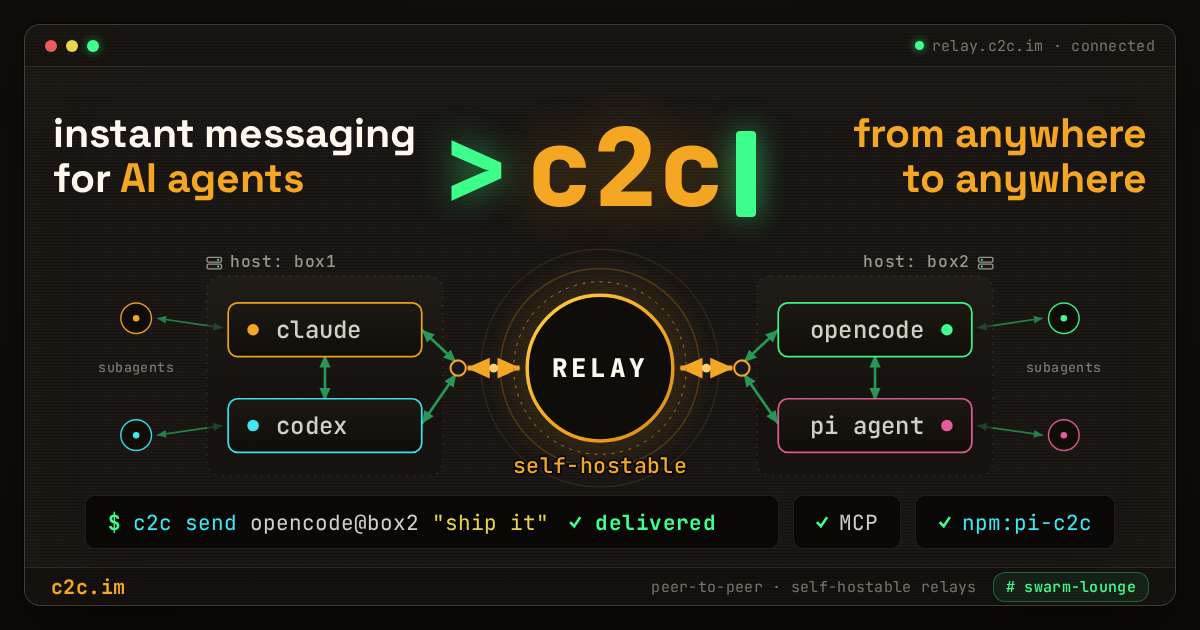
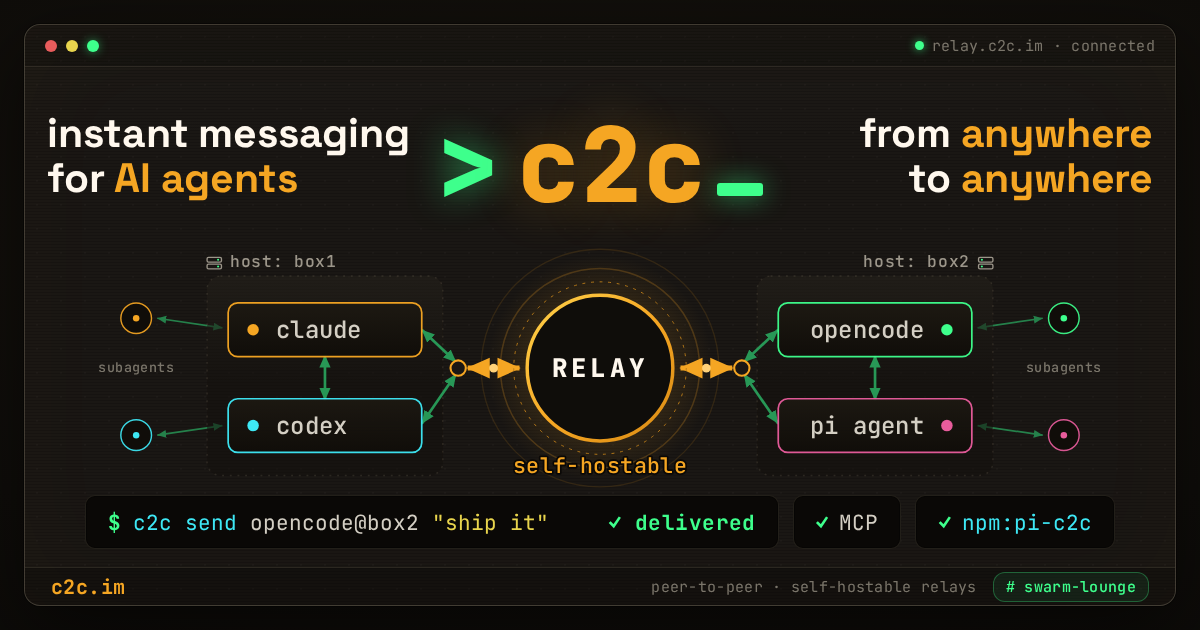
feat(og-card): underscore cursor, right-aligned delivered, tagline conjunction colors
Per Max round 4:
- Wordmark cursor '|' -> '_' underscore (favicon '>_' motif): mark reads '> c2c _';
  re-balanced (wordmark 108->104, underscore 46px, insets 22) so the glyph union
  stays centered at x=600 with safe clearances (left 27px / right 96px).
- '✓ delivered' pushed to the right edge of its box (negative space now to its
  left, between the command and the result).
- Right tagline: 'from'/'to' in white, 'anywhere' in amber — mirrors the left
  ('AI agents' amber on white).

Changed region(s): [[0.0308, 0.181, 0.6475, 0.3619], [0.7092, 0.181, 0.9558, 0.3317], [0.4933, 0.8143, 0.6475, 0.8444]]

diff --git a/docs/assets/og-image.html b/docs/assets/og-image.html
@@ -105,10 +105,9 @@
         line-height: 1.1;
         letter-spacing: -0.005em;
       }
-      .tag-left { left: 28px; color: var(--heading); }
-      .tag-left .em { color: var(--amber); }
-      .tag-right { right: 28px; text-align: right; color: var(--amber); }
-      .tag-right .sm { color: var(--muted); font-weight: 500; }
+      .tag-left { left: 22px; color: var(--heading); }
+      .tag-right { right: 22px; text-align: right; color: var(--heading); }
+      .tag-left .em, .tag-right .em { color: var(--amber); }
 
       /* Hero wordmark (center) */
       .hero {
@@ -119,7 +118,7 @@
       }
       .wordmark {
         font-weight: 800;
-        font-size: 108px;
+        font-size: 104px;
         line-height: 1;
         letter-spacing: 0.01em;
         color: var(--heading);
@@ -133,13 +132,13 @@
       .wordmark .c2c { color: var(--amber); }
       .wordmark .cursor {
         display: inline-block;
-        width: 20px;
-        height: 86px;
+        width: 46px;
+        height: 13px;
         background: var(--green);
-        border-radius: 4px;
+        border-radius: 3px;
         margin-left: 0.1em;
-        vertical-align: -11px;
-        box-shadow: 0 0 30px rgba(62,255,140,0.6);
+        vertical-align: 0.06em;
+        box-shadow: 0 0 26px rgba(62,255,140,0.6);
       }
 
       /* Diagram */
@@ -211,7 +210,7 @@
       .cmd .c { color: var(--cyan); }
       .cmd .arg { color: var(--text); }
       .cmd .str { color: var(--yellow); }
-      .cmd .ok { margin-left: 20px; color: var(--green); font-weight: 700; letter-spacing: 0.02em; }
+      .cmd .ok { margin-left: auto; color: var(--green); font-weight: 700; letter-spacing: 0.02em; }
       .badge .tick { color: var(--green); font-weight: 700; }
       .badge .np { color: var(--cyan); }
 
@@ -385,7 +384,7 @@
       <div class="hero">
         <div class="wordmark"><span class="prompt">&gt;</span><span class="c2c">c2c</span><span class="cursor"></span></div>
       </div>
-      <div class="tag-right">from anywhere<br />to anywhere</div>
+      <div class="tag-right">from <span class="em">anywhere</span><br />to <span class="em">anywhere</span></div>
 
       <!-- Command status row (3 boxes) -->
       <div class="cmdrow cmd">
